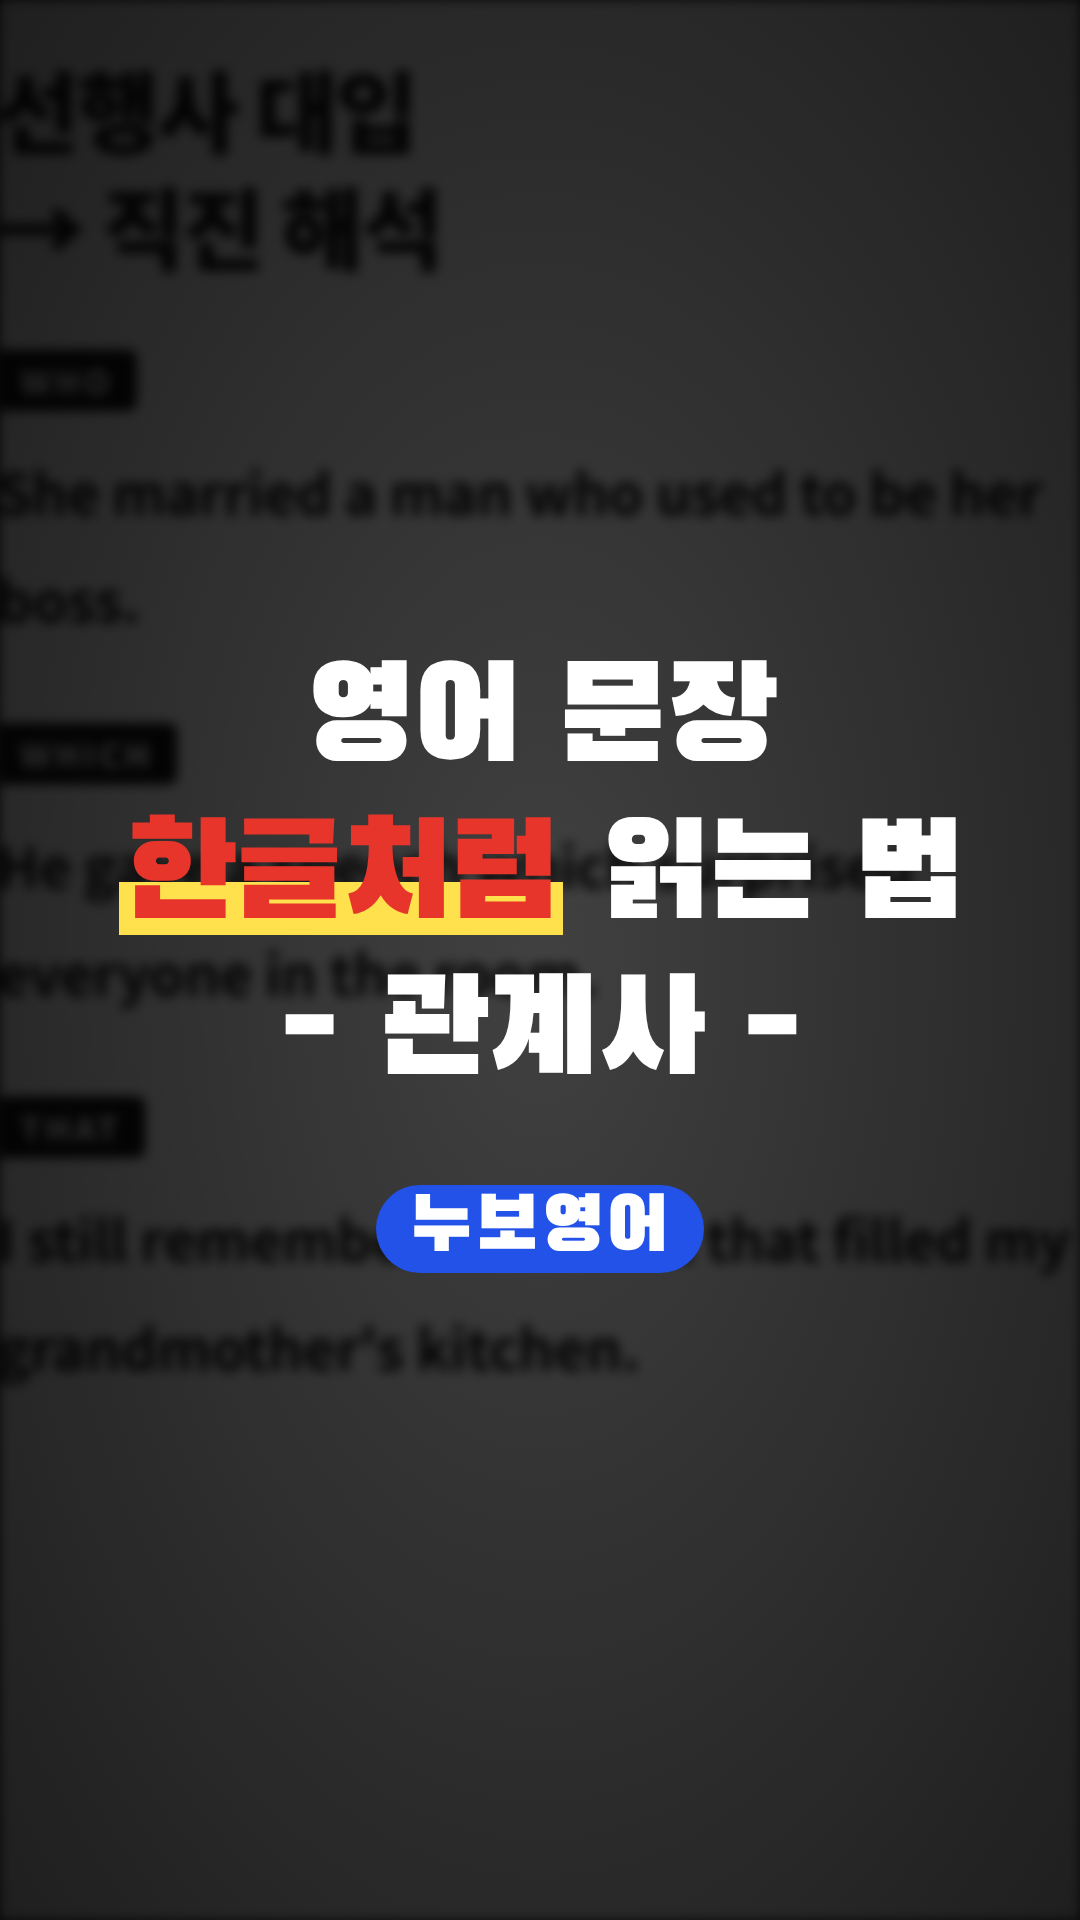
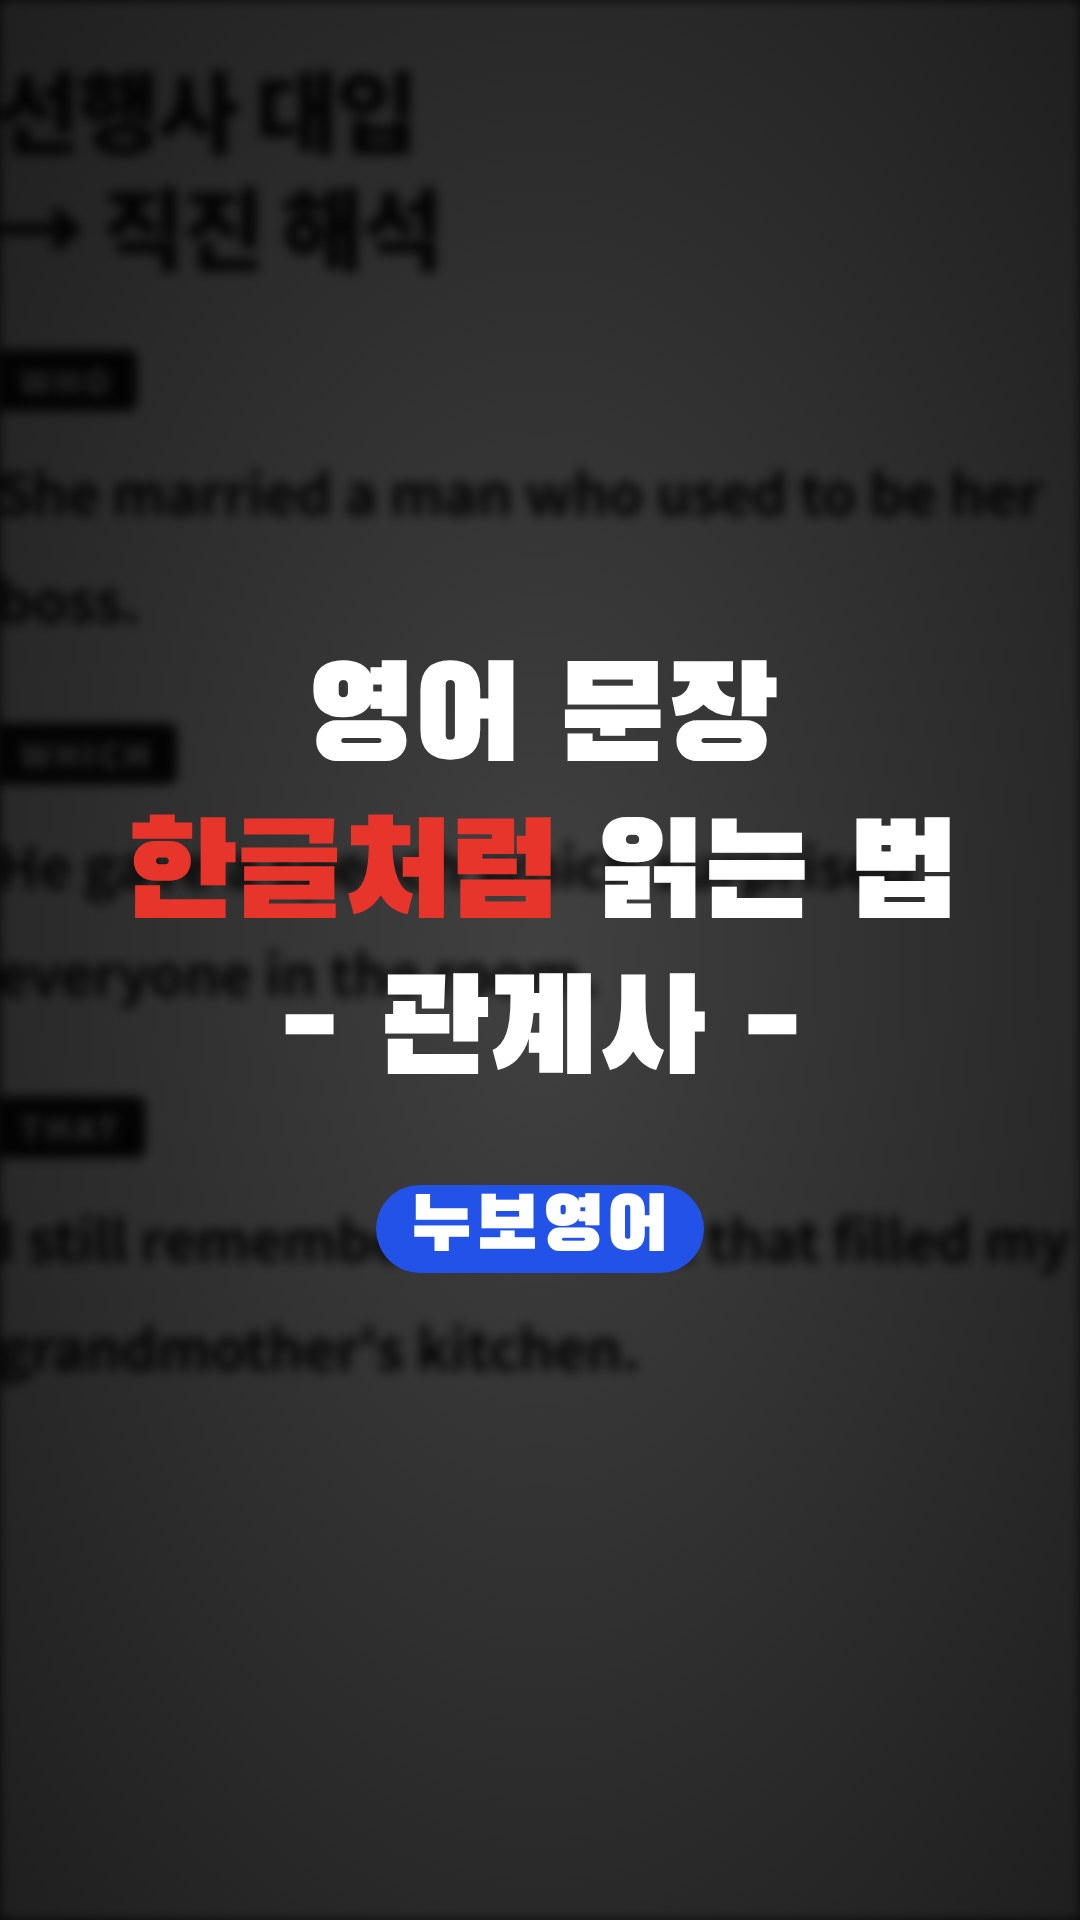
Relative-clause covers: drop highlighter band
Claude-Session: https://claude.ai/code/session_01Rym27oCy7NFVPU9s4bdxz4

diff --git a/motion/src/tip/Cover.tsx b/motion/src/tip/Cover.tsx
@@ -22,7 +22,7 @@ const Line: React.FC<{t: string; dark?: boolean; size?: number}> = ({t: raw, dar
   return (
     <div style={{fontSize: size, color: whole ? RED : base, whiteSpace: 'nowrap', marginTop: small && !forced ? 24 : 0}}>
       {t.split(/(\{[^}]+\})/).filter(Boolean).map((p, i) => p.startsWith('{')
-        ? <span key={i} style={{color: RED, background: 'linear-gradient(transparent 52%, #FFE14D 52%, #FFE14D 92%, transparent 92%)', padding: '0 6px'}}>{p.slice(1, -1)}</span>
+        ? <span key={i} style={{color: RED}}>{p.slice(1, -1)}</span>
         : <React.Fragment key={i}>{p}</React.Fragment>)}
     </div>
   );
